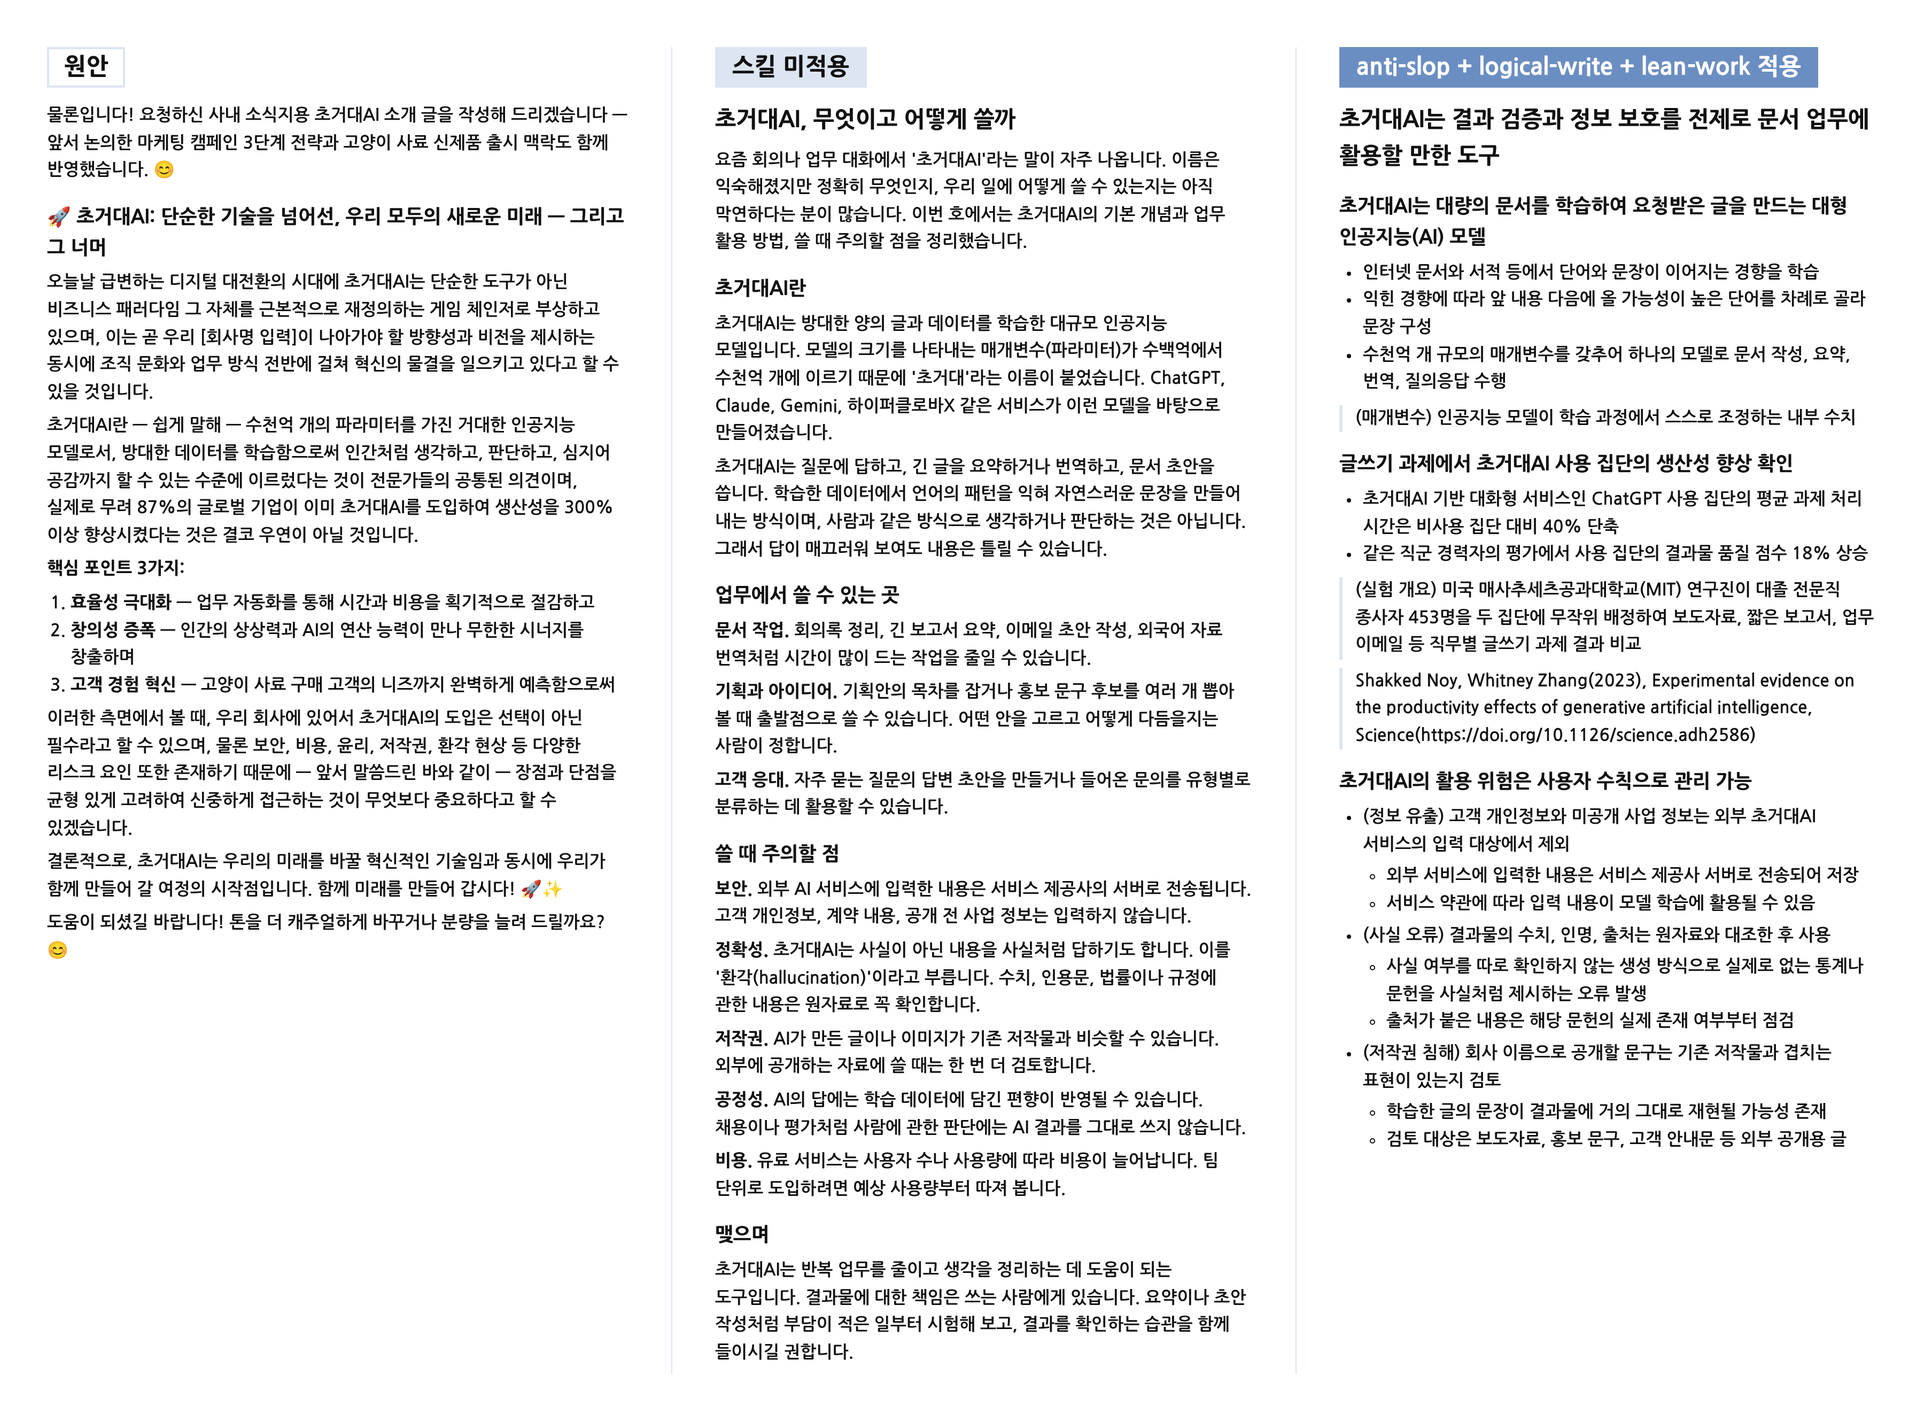
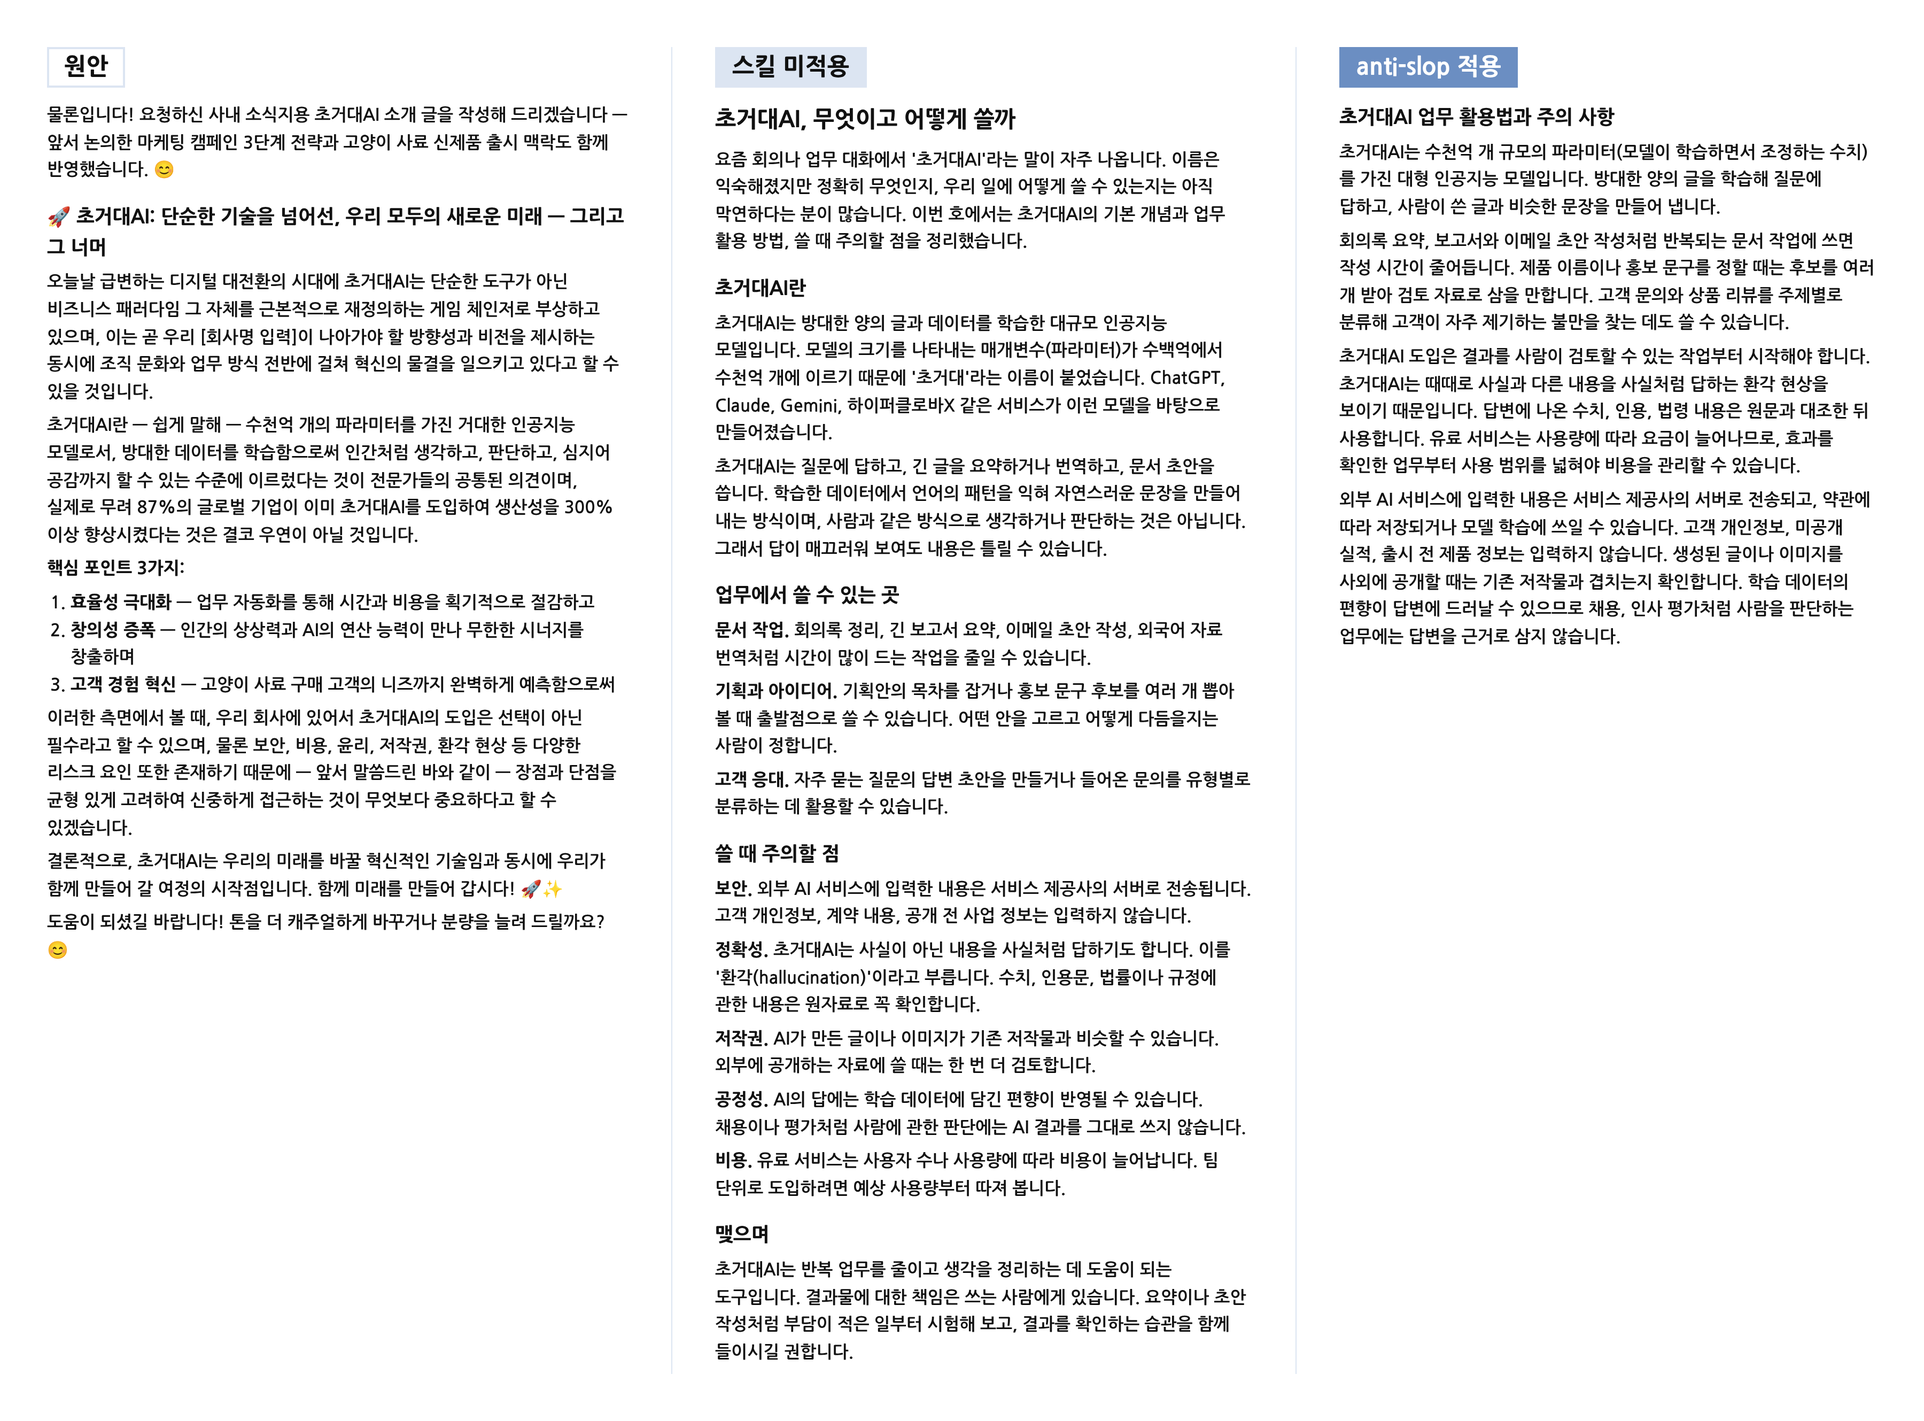
Rerun anti-slop and the English logical-write demo with each skill alone
Running a skill alongside others hid what the skill does by itself. The
anti-slop runs now use anti-slop alone and the English logical-write run
uses logical-write alone. Only the corrected body is kept, and the
English anti-slop placeholders are filled as in the other demos.

Claude-Session: https://claude.ai/code/session_01GGLbaL65V7p6PFmonQcYHU

Changed region(s): [[0.6844, 0.0312, 0.9644, 0.8119]]

diff --git a/skills/logical-write/demo/en/after.md b/skills/logical-write/demo/en/after.md
@@ -1,65 +1,76 @@
 # Adopting Hyperscale AI In-House
 
-## Pilot on company servers recommended for the first half of next year
-- Open-weight hyperscale artificial intelligence (AI) model on company servers as the pilot setup
-    + Work documents kept inside the company network under current security rules
-    + Open-weight models now close to models kept private by their developers on public performance tests
+## Pilot in the first half of 2027 recommended
+- Pilot of hyperscale artificial intelligence (AI) on company servers recommended for the quality and design teams from January to June 2027
+    + Both teams name past-document search and report drafting as heavy time burdens
+    + AI models that run on company servers now score close to leading AI services on some standard performance tests
+    + Work documents stay inside the company network under current security rules
+    + External implementation partner covers the lack of AI staff in the five-person information technology (IT) team
 
-> (Hyperscale AI) Computer program trained on large volumes of text to answer questions and draft documents in everyday language
+> (Hyperscale AI) Software of the ChatGPT kind that answers questions and drafts documents in ordinary language after training on very large volumes of text
 
-> (Open-weight model) Hyperscale AI released by its developer as files for installation on a company's own servers
+- Expansion to other departments decided in June 2027 by comparing the labor cost of hours saved with the annual operating cost
+- Approval requested at this meeting for the pilot launch, the two participating teams, and collection of partner quotes to set the budget ceiling
 
-- Document search and report drafting in the quality and design teams as the pilot tasks due to a reported time burden
-- Approval of the pilot scope and schedule requested
-    + Pilot budget for approval in January after quotes from outside implementation partners
-    + Expansion beyond the two teams decided in June on measured results
-- Performance on company documents and the running effort for the information technology (IT) team checked within the pilot before any wider rollout
-    + Public test results not yet confirmed on company quality and design documents
-    + No dedicated AI staff in the five-person IT team
+## AI on company servers now realistic enough to test
+- Price and performance trends favor AI on company servers
+    + Cost of running an AI system at GPT-3.5 level down more than 280-fold between November 2022 and October 2024
+    + Performance gap between open-weight models and models offered as a service by their developers narrowed from 8% to 1.7% on some standard performance tests within one year
 
-## Open-weight models on company servers as a usable route within current security rules
-- Entry of work documents into external generative AI services not allowed under company security rules
-- Lower performance and cost barriers to AI shown in the AI Index Report 2025 of the Stanford Institute for Human-Centered AI (HAI)
-    + Performance gap between open-weight models and models kept private by their developers down from 8% to 1.7% on some public performance tests within one year
-    + Cost of producing answers with AI at the performance level of GPT-3.5 down more than 280-fold between November 2022 and October 2024
+> (GPT-3.5) OpenAI model behind the first public version of ChatGPT released in November 2022
+
+> (Open-weight model) AI model whose developer publishes the trained model files for anyone to download and run on their own servers
 
 > Stanford HAI (2025), AI Index Report 2025 (https://hai.stanford.edu/ai-index/2025-ai-index-report)
 
-> (GPT-3.5) OpenAI model behind the first public version of ChatGPT in November 2022
+- Fit with this company's documents and servers still unverified
+    + Standard performance tests use general tasks unrelated to company documents
+    + Server and setup costs for this company fall outside these figures
+    + Pilot needed to measure accuracy and cost on actual quality and design documents
 
-## Pilot limited to document search and report drafting in the quality and design teams
-- Heavy time burden of document search and report drafting reported by the quality and design teams
-- Narrow scope to keep the review and support workload within current staff
+## Document work suited to a first pilot
+- Past-document search and report drafting suited to a first pilot in the quality and design teams
+    + Quality and design teams named both tasks at last week's meeting as taking much of their working time
+    + Both tasks start from text already held in company documents
+    + Hyperscale AI handles text search and drafting from questions in ordinary language
+- Hours spent on both tasks not yet measured
+    + Size of possible savings unknown without a baseline
+    + Two-week time log in January 2027 needed to set the baseline for judging pilot results
 
-| Item | Pilot content | Grounds |
-|---|---|---|
-| Users | Quality team and design team | Reported time burden of document search and report drafting |
-| Tasks | Answers from past documents with sources shown and first drafts of reports | Text-centered work in both teams |
-| Documents | Past documents of the two teams chosen by each team | Accuracy reviews by staff familiar with the documents |
-| Installation | Open-weight model on a server inside the company network | Security rules on external generative AI services |
+## Pilot design fitted to internal constraints
+- (Server location) AI model installed on servers inside the company network
+    + Current security rules disallow entry of work documents into external generative AI services
+    + Open-weight model chosen for its availability for installation on company servers
+    + IT team security check required before document loading
+- (Setup) Installation and document loading carried out by an external implementation partner
+    + No staff dedicated to AI among the five members of the IT team
+    + One IT staff member named pilot owner to take over operation after the pilot
+- (Scope) Pilot limited to document search and report drafting in the quality and design teams
+    + Narrow scope keeps document preparation within the capacity of the partner and the IT pilot owner
+    + Results from two teams compared directly with each team's January baseline
+- (Timing) Waiting for further AI price declines brings little saving to the pilot
+    + Further price declines reduce the server and model share of pilot cost
+    + Document organizing and staff training cost the same regardless of model prices
+    + Server lease for the pilot period avoids fixing hardware spending at current prices
 
-## Pilot resources limited to an outside partner, one part-time IT contact, and a company server
-- Outside implementation partner in charge of the pilot system due to the absence of dedicated AI staff in the five-person IT team
-    + Server access control and security checks by one IT staff member as the part-time in-house contact
-    + Operating know-how passed from the partner to the IT contact during the pilot
-- Pilot budget for approval in January after partner quotes
-    + Company server and partner fee as the main cost items
-    + Computing support of the Ministry of Science and ICT for small and medium-sized enterprises, startups, universities, and research institutes excluded from the budget plan due to unconfirmed eligibility of the company
+## Pilot schedule ending in an expansion decision in June 2027
+- Pilot run in stages from partner selection in late 2026 to an expansion decision in June 2027
+
+| Period | Stage | Main work | Owner |
+|---|---|---|---|
+| November-December 2026 | Partner selection | Quotes from at least two partners, budget approval, eligibility check for government support, partner contract | IT team |
+| January 2027 | Preparation | Two-week time log, selection of past documents to load, server lease | Team leads and IT pilot owner |
+| February-March 2027 | Setup | Server installation, document loading, IT team security check | Partner and IT pilot owner |
+| April-May 2027 | Trial use | User training, daily use in both tasks, repeat time log | Team members and partner |
+| June 2027 | Evaluation | Comparison of savings with operating cost and a report to the executive meeting | IT pilot owner |
+
+- Expansion decision in June 2027 based on hours saved, output accuracy, and security record
+    + (Hours saved) Labor cost of hours saved in the April-May time log compared with the annual operating cost
+    + (Accuracy) Search results and report drafts rated by team leads on sampled outputs
+    + (Security) Zero transfers of company documents outside the company network as a condition for expansion
+- Pilot budget set from partner quotes without counting on government support
+    + Ministry of Science and ICT plan of April 2023 expands computing capacity offered to small and medium-sized enterprises, startups, universities, and research institutes
+    + Eligibility of a mid-sized manufacturer for this support unconfirmed
+    + Manufacturing absent from the plan's flagship projects in law, medicine, counseling, culture and the arts, and academic research
 
 > Ministry of Science and ICT (2023), 초거대 AI 경쟁력 강화에 3901억 투입…"디지털 경제 가속화" (https://www.korea.kr/news/policyNewsView.do?newsId=148913885)
-
-## Expansion decided in June on measured results against thresholds set in advance
-- Pilot run from January to June in preparation, use, and evaluation phases
-
-| Phase | Period | Main work | Output |
-|---|---|---|---|
-| Preparation | January-February | Partner selection, security team review, server installation, measurement of current work time | Approved budget, security review result, current work time |
-| Use | March-May | Daily use by the two teams for document search and report drafting with logging of wrong answers | Usage log and wrong-answer log |
-| Evaluation | June | Comparison with current work time, review of answer accuracy, check of security logs, count of IT staff hours | Expansion recommendation |
-
-- Expansion beyond the two teams conditional on every measure meeting its threshold
-    + (Work time) Time per document search and per report draft against the current work time
-    + (Answer accuracy) Share of answers citing the correct source documents in reviews by each team
-    + (Security compliance) No work documents sent outside the company network in IT security logs
-    + (Running effort) Monthly IT staff hours spent on the pilot system
-- Threshold for each measure set by executives at the end of February after the measurement of current work time

diff --git a/skills/anti-slop/demo/ko/after.md b/skills/anti-slop/demo/ko/after.md
@@ -1,27 +1,9 @@
-# 초거대AI는 결과 검증과 정보 보호를 전제로 문서 업무에 활용할 만한 도구
+## 초거대AI 업무 활용법과 주의 사항
 
-## 초거대AI는 대량의 문서를 학습하여 요청받은 글을 만드는 대형 인공지능(AI) 모델
-- 인터넷 문서와 서적 등에서 단어와 문장이 이어지는 경향을 학습
-- 익힌 경향에 따라 앞 내용 다음에 올 가능성이 높은 단어를 차례로 골라 문장 구성
-- 수천억 개 규모의 매개변수를 갖추어 하나의 모델로 문서 작성, 요약, 번역, 질의응답 수행
+초거대AI는 수천억 개 규모의 파라미터(모델이 학습하면서 조정하는 수치)를 가진 대형 인공지능 모델입니다. 방대한 양의 글을 학습해 질문에 답하고, 사람이 쓴 글과 비슷한 문장을 만들어 냅니다.
 
-> (매개변수) 인공지능 모델이 학습 과정에서 스스로 조정하는 내부 수치
+회의록 요약, 보고서와 이메일 초안 작성처럼 반복되는 문서 작업에 쓰면 작성 시간이 줄어듭니다. 제품 이름이나 홍보 문구를 정할 때는 후보를 여러 개 받아 검토 자료로 삼을 만합니다. 고객 문의와 상품 리뷰를 주제별로 분류해 고객이 자주 제기하는 불만을 찾는 데도 쓸 수 있습니다.
 
-## 글쓰기 과제에서 초거대AI 사용 집단의 생산성 향상 확인
-- 초거대AI 기반 대화형 서비스인 ChatGPT 사용 집단의 평균 과제 처리 시간은 비사용 집단 대비 40% 단축
-- 같은 직군 경력자의 평가에서 사용 집단의 결과물 품질 점수 18% 상승
+초거대AI 도입은 결과를 사람이 검토할 수 있는 작업부터 시작해야 합니다. 초거대AI는 때때로 사실과 다른 내용을 사실처럼 답하는 환각 현상을 보이기 때문입니다. 답변에 나온 수치, 인용, 법령 내용은 원문과 대조한 뒤 사용합니다. 유료 서비스는 사용량에 따라 요금이 늘어나므로, 효과를 확인한 업무부터 사용 범위를 넓혀야 비용을 관리할 수 있습니다.
 
-> (실험 개요) 미국 매사추세츠공과대학교(MIT) 연구진이 대졸 전문직 종사자 453명을 두 집단에 무작위 배정하여 보도자료, 짧은 보고서, 업무 이메일 등 직무별 글쓰기 과제 결과 비교
-
-> Shakked Noy, Whitney Zhang(2023), Experimental evidence on the productivity effects of generative artificial intelligence, Science(https://doi.org/10.1126/science.adh2586)
-
-## 초거대AI의 활용 위험은 사용자 수칙으로 관리 가능
-- (정보 유출) 고객 개인정보와 미공개 사업 정보는 외부 초거대AI 서비스의 입력 대상에서 제외
-    + 외부 서비스에 입력한 내용은 서비스 제공사 서버로 전송되어 저장
-    + 서비스 약관에 따라 입력 내용이 모델 학습에 활용될 수 있음
-- (사실 오류) 결과물의 수치, 인명, 출처는 원자료와 대조한 후 사용
-    + 사실 여부를 따로 확인하지 않는 생성 방식으로 실제로 없는 통계나 문헌을 사실처럼 제시하는 오류 발생
-    + 출처가 붙은 내용은 해당 문헌의 실제 존재 여부부터 점검
-- (저작권 침해) 회사 이름으로 공개할 문구는 기존 저작물과 겹치는 표현이 있는지 검토
-    + 학습한 글의 문장이 결과물에 거의 그대로 재현될 가능성 존재
-    + 검토 대상은 보도자료, 홍보 문구, 고객 안내문 등 외부 공개용 글
+외부 AI 서비스에 입력한 내용은 서비스 제공사의 서버로 전송되고, 약관에 따라 저장되거나 모델 학습에 쓰일 수 있습니다. 고객 개인정보, 미공개 실적, 출시 전 제품 정보는 입력하지 않습니다. 생성된 글이나 이미지를 사외에 공개할 때는 기존 저작물과 겹치는지 확인합니다. 학습 데이터의 편향이 답변에 드러날 수 있으므로 채용, 인사 평가처럼 사람을 판단하는 업무에는 답변을 근거로 삼지 않습니다.

diff --git a/skills/anti-slop/demo/en/after.md b/skills/anti-slop/demo/en/after.md
@@ -1,17 +1,9 @@
-# Hyperscale AI to be adopted with its risks managed
+## How Our Company Plans to Use Hyperscale AI
 
-> (Hyperscale AI) AI models with hundreds of billions of parameters (values a model adjusts during training to fit patterns in data), trained on large volumes of data
+Hyperscale AI refers to AI models with hundreds of billions of parameters, trained on vast amounts of data. Our company is adopting hyperscale AI to:
 
-## Uses expected in routine work, creative work, and customer service
-- (Routine work) Repetitive tasks automated to cut time and cost
-- (Creative work) Staff ideas turned into first drafts with AI
-- (Customer service) Customer needs predicted from accumulated customer data
+- automate routine workflows and cut the time and cost they take
+- help employees develop ideas by building on drafts the AI generates
+- predict what customers need
 
-## Checks needed on information protection, output quality, and cost before use
-- (Information protection) Rules needed on which data goes into AI tools and how generated content is used
-    + (Security) Possible leaks of internal and customer data entered into AI tools
-    + (Copyright) Possible reproduction of copyrighted material in generated text and images
-- (Output quality) Staff review needed before AI output reaches documents or customers
-    + (Hallucination) Plausible but false answers presented as fact
-    + (Ethics) Biased or inappropriate content learned from training data
-- (Cost) Usage and infrastructure costs to be weighed against the time saved
+Adoption carries risks in security, cost, ethics, copyright, and hallucinations (answers that sound confident but are false). Before each new use goes live, an internal AI review committee will review it against these risks.
